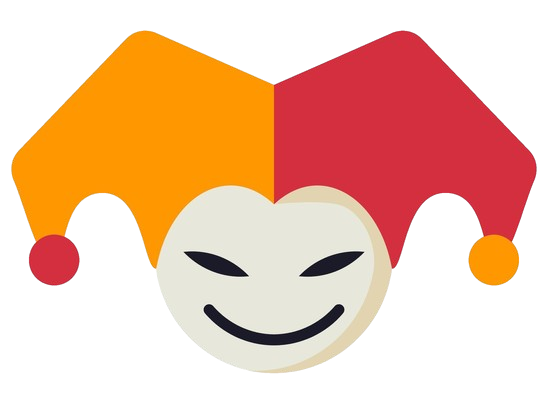
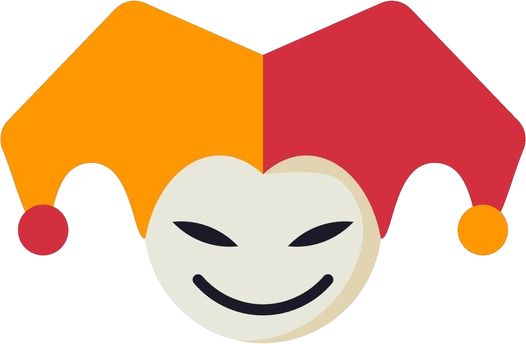
FINAL README CURATED

Changed region(s): [[0.0, 0.0, 1.0, 1.0]]

diff --git a/README.md b/README.md
@@ -2,17 +2,17 @@
 
 <div align="center">
 
-<img src="assets/Moriarty-Logo.jpg" alt="Moriarty-Script" width="480"/>
+<img src="assets/Moriarty-Icon.png" alt="Moriarty-Script" width="192"/>
 
-#
+<h1>Moriarty</h1>
 
 **One-shot OPSEC hardening for Arch Linux.**
 
 Turn your machine into a moving target — randomized hardware identity, encrypted DNS and a locked-down kernel, in a single command.
 
-[![OS](https://img.shields.io/badge/OS-Arch_Linux-1793D1?logo=archlinux&logoColor=white)](https://archlinux.org)
-[![Shell](https://img.shields.io/badge/Shell-Bash-121011?logo=gnubash&logoColor=white)](https://www.gnu.org/software/bash/)
-[![License](https://img.shields.io/badge/License-GPL_v3-blue.svg)](LICENSE)
+[![OS](https://img.shields.io/badge/OS-Arch_Linux-D42F3F?logo=archlinux&logoColor=E7E7DB)](https://archlinux.org)
+[![Shell](https://img.shields.io/badge/Shell-Bash-FF9700?logo=gnubash&logoColor=E7E7DB)](https://www.gnu.org/software/bash/)
+[![License](https://img.shields.io/badge/License-GPL_v3-D42F3F?logo=open-source-initiative&logoColor=E7E7DB)](LICENSE)
 
 </div>
 
